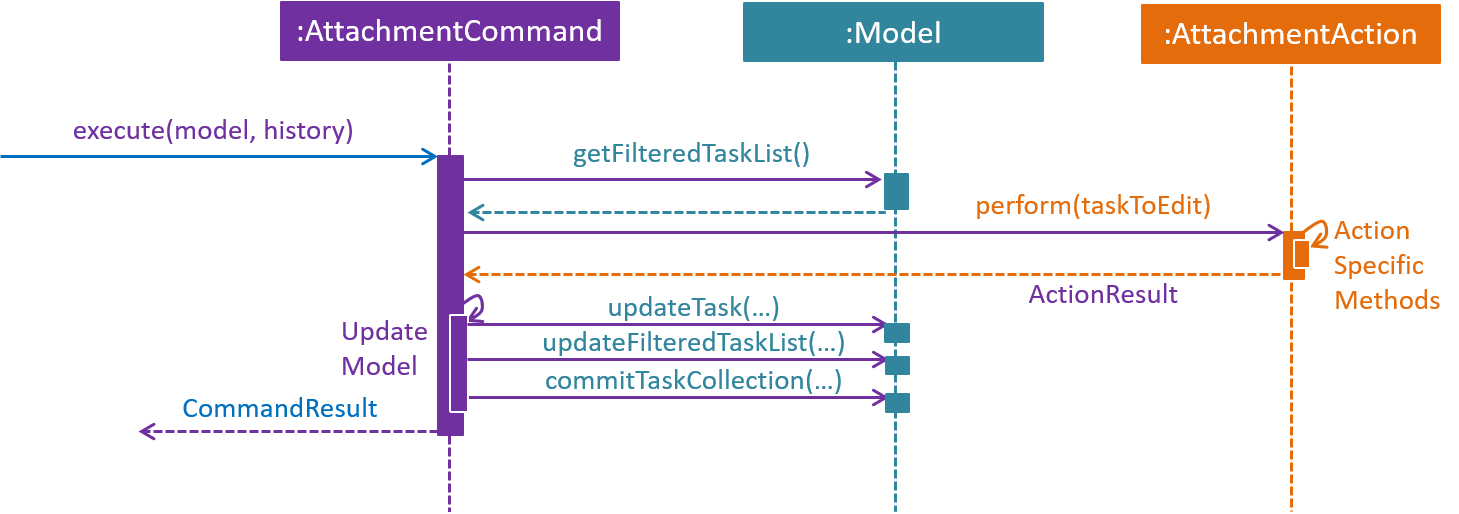
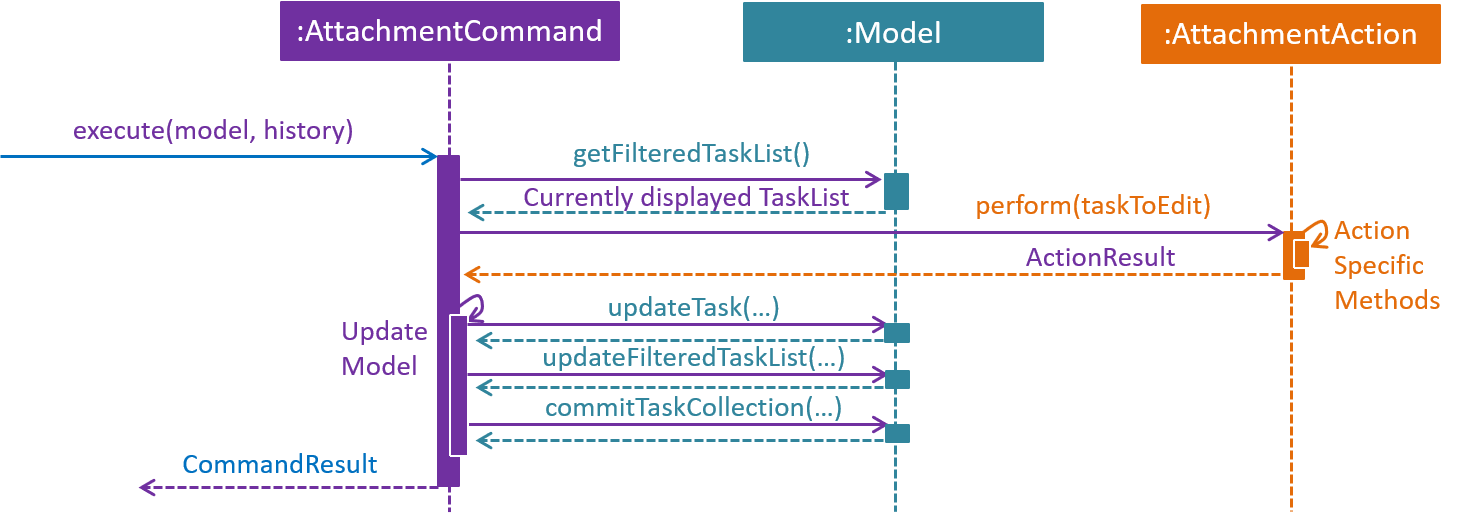
Rebuild pages at 24408ee85d6855a47dd40bf54fd4af70d0c13a11

diff --git a/DeveloperGuide.html b/DeveloperGuide.html
@@ -149,6 +149,7 @@ This <strong>Developer Guide</strong> help you get started with contributing to 
 <ul class="sectlevel2">
 <li><a href="#launch-and-shutdown">H.1. Launch and Shutdown</a></li>
 <li><a href="#deleting-a-task">H.2. Deleting a task</a></li>
+<li><a href="#attachments">H.3. Attachments</a></li>
 </ul>
 </li>
 </ul>
@@ -2228,7 +2229,7 @@ In total, there are around 15 distinct kinds of error conditions when parsing a 
 <div class="content">
 <img src="images/AttachmentExecuteSequenceDiagram.png" alt="AttachmentExecuteSequenceDiagram" width="800">
 </div>
-<div class="title">Figure 10. Sequence Diagram for performing the <code>execute</code> method of an <code>AttachmentCommand</code></div>
+<div class="title">Figure 10. Sequence Diagram for performing the <code>execute</code> method of an <code>AttachmentCommand</code>.</div>
 </div>
 <div class="paragraph">
 <p>Step 1. The task identified by the user is retrieved from the <code>Model</code>.</p>
@@ -3984,9 +3985,145 @@ Expected: First contact is deleted from the list. Details of the deleted contact
 Expected: No task is deleted. Error details shown in the status message. Status bar remains the same.</p>
 </li>
 <li>
-<p>Other incorrect delete commands to try: <code>delete</code>, <code>delete x</code> (where x is larger than the list size)
-+
-  Expected: Similar to previous.</p>
+<p>Other incorrect delete commands to try: <code>delete</code>, <code>delete x</code> (where x is larger than the list size)<br>
+Expected: Similar to previous.</p>
+</li>
+</ol>
+</div>
+</li>
+</ol>
+</div>
+</div>
+<div class="sect2">
+<h3 id="attachments"><a class="link" href="#attachments">H.3. Attachments</a></h3>
+<div class="olist arabic">
+<ol class="arabic">
+<li>
+<p>Adding an attachment to a task</p>
+<div class="olist loweralpha">
+<ol class="loweralpha" type="a">
+<li>
+<p>Prerequisites:</p>
+<div class="olist lowerroman">
+<ol class="lowerroman" type="i">
+<li>
+<p>List all tasks using the <code>list</code> command. There should be at least one task in the Deadline Manager.</p>
+</li>
+<li>
+<p>Create a file named <code>hello.txt</code> in the same directory as the Deadline Manager&#8217;s jar file. You must have read permission for that file.</p>
+</li>
+<li>
+<p>The first task listed in the application does not have any attachments yet.</p>
+</li>
+<li>
+<p>Ensure that there isn&#8217;t a file named <code>nothere.txt</code> in the same directory as the Deadline Manager&#8217;s jar file.</p>
+</li>
+</ol>
+</div>
+</li>
+<li>
+<p>Test case: <code>attachment 1 add p/"hello.txt"</code><br>
+Expected: <code>hello.txt</code> is added to the first task as attachment. A gray label containing <code>hello.txt</code> should appear in the Task card of the first task. All tasks should be listed.</p>
+</li>
+<li>
+<p>Test case: <code>attachment 1 add p/"nothere.txt"</code><br>
+Expected: <code>nothere.txt</code> is not added as attachment as the file does not exist. Error details is shown in the status message.</p>
+</li>
+</ol>
+</div>
+</li>
+<li>
+<p>Deleting an attachment from a task</p>
+<div class="olist loweralpha">
+<ol class="loweralpha" type="a">
+<li>
+<p>Prerequisites:</p>
+<div class="olist lowerroman">
+<ol class="lowerroman" type="i">
+<li>
+<p>List all tasks using the <code>list</code> command. There should be at least one task in the Deadline Manager.</p>
+</li>
+<li>
+<p>An attachment named <code>hello.txt</code> in the same directory as the Deadline Manager&#8217;s jar file is already added to the first task listed in the application. (To do so, you may refer to the previous section.)</p>
+</li>
+<li>
+<p>The first task listed has only 1 single attachment: <code>hello.txt</code>.</p>
+</li>
+</ol>
+</div>
+</li>
+<li>
+<p>Test case: <code>attachment 1 delete n/"hello.txt"</code><br>
+Expected: <code>hello.txt</code> is unassociated with the first task. It should still remain in the filesystem. The gray label containing <code>hello.txt</code> in the Task card of the first task is removed. All tasks should now be listed.</p>
+</li>
+<li>
+<p>Test case: <code>attachment 1 delete n/"nothere.txt"</code><br>
+Expected: No attachment is unassociated from the first task. Error details is shown in the status message.</p>
+</li>
+</ol>
+</div>
+</li>
+<li>
+<p>Listing attachments of a task</p>
+<div class="olist loweralpha">
+<ol class="loweralpha" type="a">
+<li>
+<p>Prerequisites:</p>
+<div class="olist lowerroman">
+<ol class="lowerroman" type="i">
+<li>
+<p>List all tasks using the <code>list</code> command. There should be at least two tasks in the Deadline Manager.</p>
+</li>
+<li>
+<p>The first task listed should already have some number of attachments.</p>
+</li>
+<li>
+<p>The second task listed should have no attachments.</p>
+</li>
+</ol>
+</div>
+</li>
+<li>
+<p>Test case: <code>attachment 1 list</code><br>
+Expected: The status message is updated with a listing of all the attachments of the first task. The attachments are identified by their filename, not filepath.</p>
+</li>
+<li>
+<p>Test case: <code>attachment 2 list</code><br>
+Expected: The list command should still be successful but it should just indicate <code>0 attachment(s) in total.</code></p>
+</li>
+</ol>
+</div>
+</li>
+<li>
+<p>Retrieving attachments from a task</p>
+<div class="olist loweralpha">
+<ol class="loweralpha" type="a">
+<li>
+<p>Prerequisites:</p>
+<div class="olist lowerroman">
+<ol class="lowerroman" type="i">
+<li>
+<p>List all tasks using the <code>list</code> command. There should be at least 1 task in Deadline Manager.</p>
+</li>
+<li>
+<p>Create a file named <code>hello.txt</code> in the same directory as the Deadline Manager&#8217;s jar file. You must have read permission for that file.</p>
+</li>
+<li>
+<p>Add <code>hello.txt</code> as an attachment to the first task. (You may refer to the previous sections on how to do so.)</p>
+</li>
+<li>
+<p>Ensure that you have write permissions to the file/location <code>hello2.txt</code> in the same directory as the Deadline Manager&#8217;s jar file.</p>
+</li>
+</ol>
+</div>
+</li>
+<li>
+<p>Test case: <code>attachment 1 get n/"hello.txt" p/"hello2.txt"</code><br>
+Expected: The file contents of <code>hello.txt</code> is copied to <code>hello2.txt</code> in the same directory as the Deadline Manager&#8217;s jar file. If <code>hello2.txt</code> is previously another file, it would have been overwritten by the command.</p>
+</li>
+<li>
+<p>Test case: <code>attachment 1 get n/"nothere.txt" p/"hello2.txt"</code><br>
+Expected: Error details saying that <code>nothere.txt</code> is not an attachment would be displayed as the status message. No file is copied.</p>
 </li>
 </ol>
 </div>
@@ -3995,4 +4132,4 @@ Expected: No task is deleted. Error details shown in the status message. Status 
 </div>
 </div>
 </div>
-</div></div><div id="footer"><div class="container"><div id="footer-text">Last updated 2018-11-11 05:32:05 UTC</div></div></div></body></html>
+</div></div><div id="footer"><div class="container"><div id="footer-text">Last updated 2018-11-11 07:12:21 UTC</div></div></div></body></html>

diff --git a/team/johndoe.html b/team/johndoe.html
@@ -460,4 +460,4 @@ If the <code>currentStatePointer</code> is at index <code>taskCollectionStateLis
 <p><em>{Optionally, you may include other projects in your portfolio.}</em></p>
 </div>
 </div>
-</div></div><div id="footer"><div class="container"><div id="footer-text">Last updated 2018-11-11 05:32:05 UTC</div></div></div></body></html>
+</div></div><div id="footer"><div class="container"><div id="footer-text">Last updated 2018-11-11 07:12:21 UTC</div></div></div></body></html>

diff --git a/ContactUs.html b/ContactUs.html
@@ -12,4 +12,4 @@
 <p><strong>Email us</strong> : You can also reach us at <code>damith [at] comp.nus.edu.sg</code></p>
 </li>
 </ul>
-</div></div><div id="footer"><div class="container"><div id="footer-text">Last updated 2018-11-11 05:32:05 UTC</div></div></div></body></html>
+</div></div><div id="footer"><div class="container"><div id="footer-text">Last updated 2018-11-11 07:12:21 UTC</div></div></div></body></html>

diff --git a/LearningOutcomes.html b/LearningOutcomes.html
@@ -542,4 +542,4 @@ class gives some examples of how to use <em>Equivalence Partitions</em>, <em>Bou
 </div>
 </div>
 </div>
-</div></div><div id="footer"><div class="container"><div id="footer-text">Last updated 2018-11-11 05:32:05 UTC</div></div></div></body></html>
+</div></div><div id="footer"><div class="container"><div id="footer-text">Last updated 2018-11-11 07:12:21 UTC</div></div></div></body></html>

diff --git a/team/btzy.html b/team/btzy.html
@@ -640,4 +640,4 @@ The simplified syntax only contains the test phrase, and is explained in a separ
 </div>
 </div>
 </div>
-</div></div><div id="footer"><div class="container"><div id="footer-text">Last updated 2018-11-11 05:32:05 UTC</div></div></div></body></html>
+</div></div><div id="footer"><div class="container"><div id="footer-text">Last updated 2018-11-11 07:12:21 UTC</div></div></div></body></html>

diff --git a/team/ranaldmiao.html b/team/ranaldmiao.html
@@ -523,4 +523,4 @@ Lists all attachments currently associated with the 1st task in the deadline man
 </div>
 </div>
 </div>
-</div></div><div id="footer"><div class="container"><div id="footer-text">Last updated 2018-11-11 05:32:05 UTC</div></div></div></body></html>
+</div></div><div id="footer"><div class="container"><div id="footer-text">Last updated 2018-11-11 07:12:21 UTC</div></div></div></body></html>

diff --git a/team/sidhant007.html b/team/sidhant007.html
@@ -546,4 +546,4 @@ A <code>NullPointerException</code> is raised in case the <code>SortCommand</cod
 </div>
 </div>
 </div>
-</div></div><div id="footer"><div class="container"><div id="footer-text">Last updated 2018-11-11 05:32:05 UTC</div></div></div></body></html>
+</div></div><div id="footer"><div class="container"><div id="footer-text">Last updated 2018-11-11 07:12:21 UTC</div></div></div></body></html>

diff --git a/team/sijie123.html b/team/sijie123.html
@@ -723,4 +723,4 @@ If the user attempts to import a new task that conflicts with an existing task, 
 </div>
 </div>
 </div>
-</div></div><div id="footer"><div class="container"><div id="footer-text">Last updated 2018-11-11 05:32:05 UTC</div></div></div></body></html>
+</div></div><div id="footer"><div class="container"><div id="footer-text">Last updated 2018-11-11 07:12:21 UTC</div></div></div></body></html>

diff --git a/UsingGradle.html b/UsingGradle.html
@@ -255,4 +255,4 @@ See <code>build.gradle</code> &#8594; <code>allprojects</code> &#8594; <code>dep
 </ul>
 </div>
 </div>
-</div></div><div id="footer"><div class="container"><div id="footer-text">Last updated 2018-11-11 05:32:05 UTC</div></div></div></body></html>
+</div></div><div id="footer"><div class="container"><div id="footer-text">Last updated 2018-11-11 07:12:21 UTC</div></div></div></body></html>

diff --git a/UsingNetlify.html b/UsingNetlify.html
@@ -123,4 +123,4 @@ The publish directory is the directory in which the built HTML documentation res
 </ol>
 </div>
 </div>
-</div></div><div id="footer"><div class="container"><div id="footer-text">Last updated 2018-11-11 05:32:05 UTC</div></div></div></body></html>
+</div></div><div id="footer"><div class="container"><div id="footer-text">Last updated 2018-11-11 07:12:21 UTC</div></div></div></body></html>

diff --git a/UsingCoveralls.html b/UsingCoveralls.html
@@ -96,4 +96,4 @@ If you have not set up Travis CI, see <a href="UsingTravis.html">UsingTravis.ado
 </ol>
 </div>
 </div>
-</div></div><div id="footer"><div class="container"><div id="footer-text">Last updated 2018-11-11 05:32:05 UTC</div></div></div></body></html>
+</div></div><div id="footer"><div class="container"><div id="footer-text">Last updated 2018-11-11 07:12:21 UTC</div></div></div></body></html>

diff --git a/UsingTravis.html b/UsingTravis.html
@@ -280,4 +280,4 @@ Suggested change: Remove the codacy badge from <code>README</code>.</p>
 </div>
 </div>
 </div>
-</div></div><div id="footer"><div class="container"><div id="footer-text">Last updated 2018-11-11 05:32:05 UTC</div></div></div></body></html>
+</div></div><div id="footer"><div class="container"><div id="footer-text">Last updated 2018-11-11 07:12:21 UTC</div></div></div></body></html>
